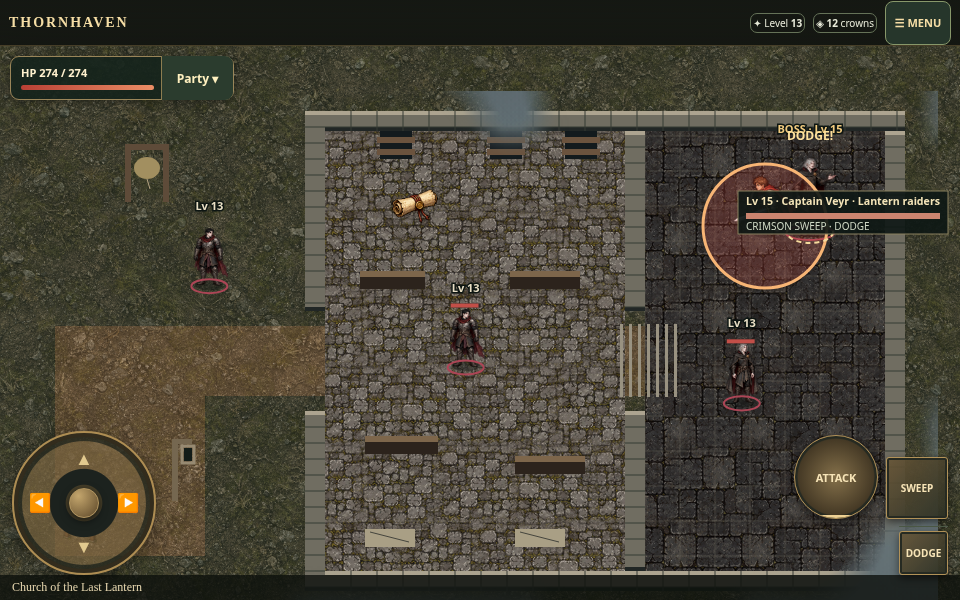
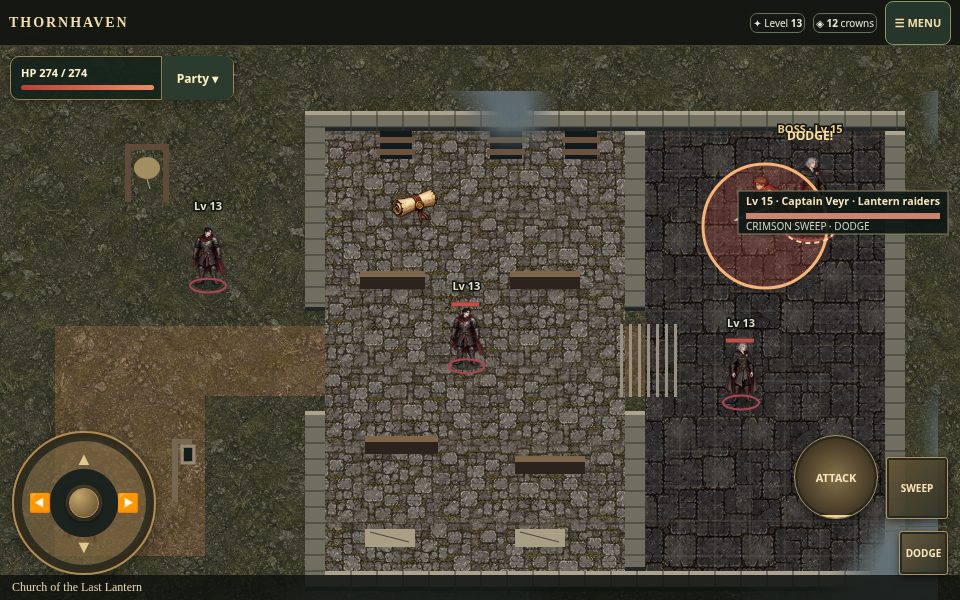
Keep Last Lantern hidden until an explicit approved story reveal

diff --git a/app/src/main/assets/last-lantern.js b/app/src/main/assets/last-lantern.js
@@ -5,6 +5,9 @@
 (() => {
  'use strict';
  const id='last_lantern', quest='last_lantern';
+ // Closed until an approved later-story reveal explicitly authorizes this hero.
+ // No production code sets this flag; QA alone enables it to exercise the lair.
+ const access=(quests=townQuestState)=>quests?._lastLanternAccess?.revealed===true;
  const entry={id:'lantern_road',x:650,y:315,label:'LAST LANTERN · RUINED CHURCH'};
  const objects=[
   {id:'lantern_return',x:80,y:490,label:'BRIAR HOLLOW · RETURN'},
@@ -31,12 +34,22 @@
   trees:[],stones:[],npcs:[],enemies:structuredClone(freshEnemies),gatherNodes:[],
   arrival:[80,490],solidAreas:[...masonry,...benches],worldObjects:objects,
   hint:'A Light Beneath the Ruins · churchyard → nave → undercroft. Return southwest at any time.'};
- maps.briarhollow.worldObjects.push(entry);
  mapConnections[id]={entries:{default:[80,490]},exits:[{trigger:'interact',x:80,y:490,radius:44,to:'briarhollow',entry:'from_lantern'}]};
  mapConnections.briarhollow.entries.from_lantern=[650,315];
- mapConnections.briarhollow.exits.push({trigger:'interact',x:650,y:315,radius:44,to:id,entry:'default'});
+ const outward={trigger:'interact',x:650,y:315,radius:44,to:id,entry:'default'};
  // Atlas route placement only: this is a separate explorable map, not a grid town.
- worldPositions[id]=[(worldPositions.briarhollow?.[0]||50)+2,(worldPositions.briarhollow?.[1]||50)+2];
+ const position=[(worldPositions.briarhollow?.[0]||50)+2,(worldPositions.briarhollow?.[1]||50)+2];
+ function syncAccess(quests=townQuestState){
+  const open=access(quests),objects=maps.briarhollow.worldObjects,exits=mapConnections.briarhollow.exits;
+  if(open){if(!objects.includes(entry))objects.push(entry);if(!exits.includes(outward))exits.push(outward);worldPositions[id]=position;}
+  else{const oi=objects.indexOf(entry),ei=exits.indexOf(outward);if(oi>=0)objects.splice(oi,1);if(ei>=0)exits.splice(ei,1);delete worldPositions[id];}
+ }
+ syncAccess();
+ const mapBefore=setMap;
+ setMap=function(destination,...args){syncAccess();if(destination===id&&!access())return false;return mapBefore(destination,...args);};
+ const detailsBefore=showAtlasDetails,travelBefore=travelTo;
+ showAtlasDetails=function(destination){if(destination===id&&!access()){document.getElementById('atlasSelection').textContent='This route is not available yet.';return false;}return detailsBefore(destination);};
+ travelTo=function(destination){if(destination===id&&!access())return false;return travelBefore(destination);};
  const read=()=>townQuestState[quest]||{};
  const state=()=>townQuestState[quest]||(townQuestState[quest]={accepted:true});
  const cleared=()=>maps[id].enemies.every(e=>!e.alive);
@@ -47,7 +60,7 @@
    progress:[s.bell,s.register,s.inventory].filter(Boolean).length+'/3 discoveries · '+maps[id].enemies.filter(e=>!e.alive).length+'/4 raiders',ready:cleared()&&evidence(s)&&!s.claimed};
  };
  const catalogBefore=questCatalog;
- questCatalog=function(){const s=read();return [...catalogBefore(),{id:quest,title:'A Light Beneath the Ruins',desc:guide().detail,reward:'65 crowns · 70 XP · an unresolved wagon-route lead',active:!!s.accepted&&!s.claimed,done:!!s.claimed}];};
+ questCatalog=function(){if(!access())return catalogBefore();const s=read();return [...catalogBefore(),{id:quest,title:'A Light Beneath the Ruins',desc:guide().detail,reward:'65 crowns · 70 XP · an unresolved wagon-route lead',active:!!s.accepted&&!s.claimed,done:!!s.claimed}];};
  const guideBefore=questGuide;
  questGuide=function(q){return q.id===quest?guide():guideBefore(q);};
  const killBefore=finishEnemy;
@@ -61,19 +74,25 @@
  applySavedGame=function(save){
   if(!save)return;
   maps[id].enemies.splice(0,maps[id].enemies.length,...structuredClone(freshEnemies));
+  syncAccess(save.townQuestState);
+  // A pre-gate development save cannot expose the lair without authorization.
+  // Preserve its discoveries/clearance, but resume outside on the existing road.
+  if(save.mapId===id&&!access(save.townQuestState))save={...save,mapId:'briarhollow',player:{...save.player,x:650,y:315}};
   loadBefore(save);
+  syncAccess();
   const s=read();for(const e of maps[id].enemies)if(s[e.lanternRaider]||s.cleared||s.claimed){e.alive=false;e.hp=0;e.respawnAt=0;}
  };
  const interactBefore=worldObjectInteract;
  worldObjectInteract=function(o){
   if(!o?.id?.startsWith('lantern_'))return interactBefore(o);
+  if(!access())return false;
   // Preserve normal proximity/map requirements even for delayed dialog callbacks.
   if(!(activeMap.worldObjects||[]).includes(o)||Math.hypot(player.x-o.x,player.y-o.y)>68)return false;
   if(o.id==='lantern_return')return takeMapExit(mapConnections[id].exits[0]);
   if(o.id==='lantern_road'){
    const prior=townQuestState.briar_hollow||{};
    openAdventureDialog('The Church of the Last Lantern','A roadside church once kept a lantern burning for boats and wagons. Its windows are boarded; hostile vampire raiders hold the ruins. This is an optional expedition, recommended for level 13+ with healing supplies. You may retreat at any time.\n\n'+(prior.claimed?'Ada is safe and the missing are remembered. This trail does not settle their fates.':prior.rescued?'Ada has reached safety. The church is a separate lead.':'Briar Hollow’s search for survivors remains separate; you can return to it at any time.'),[
-    {label:'Enter the ruined church',action:()=>{if(mapId!=='briarhollow'||Math.hypot(player.x-entry.x,player.y-entry.y)>68)return;if(!journalCanAccept(quest))return;state().accepted=true;takeMapExit(mapConnections.briarhollow.exits.find(e=>e.to===id));}},
+    {label:'Enter the ruined church',action:()=>{if(!access()||mapId!=='briarhollow'||Math.hypot(player.x-entry.x,player.y-entry.y)>68)return;if(!journalCanAccept(quest))return;state().accepted=true;takeMapExit(mapConnections.briarhollow.exits.find(e=>e.to===id));}},
     {label:'Stay on the road',action:()=>{}}
    ]);return true;
   }
@@ -98,10 +117,10 @@
  };
  // Completed/partial discoveries remain readable in the normal quest journal.
  const rawCatalog=questCatalog;
- questCatalog=function(){const rows=rawCatalog(),q=rows.find(q=>q.id===quest),s=read();q.desc+='\n'+[s.bell?'Bell: a severed rope, a repeated method without proof of identity.':'',s.register?'Register: shelter for travelers, boat crews and children.':'',s.inventory?'Inventory: oil, blankets, bandages, axles; R-7 and the Third Mooring. No names or code key.':''].filter(Boolean).join('\n');return rows;};
+ questCatalog=function(){const rows=rawCatalog(),q=rows.find(q=>q.id===quest),s=read();if(!q)return rows;q.desc+='\n'+[s.bell?'Bell: a severed rope, a repeated method without proof of identity.':'',s.register?'Register: shelter for travelers, boat crews and children.':'',s.inventory?'Inventory: oil, blankets, bandages, axles; R-7 and the Third Mooring. No names or code key.':''].filter(Boolean).join('\n');return rows;};
  const drawBefore=drawBriarHollow;
  drawBriarHollow=function(){
-  drawBefore();
+  drawBefore();syncAccess();if(!access())return;
   if(mapId==='briarhollow'){standArt('notice',entry.x,entry.y,42,'extras');if(Math.hypot(player.x-entry.x,player.y-entry.y)<210)drawLocationLabel(entry.x,entry.y-84,'LAST LANTERN · CHURCH →');return;}
   if(mapId!==id)return;
   const b=worldBounds(id),s=read();ctx.save();

diff --git a/app/src/main/assets/cloud-save-core.js b/app/src/main/assets/cloud-save-core.js
@@ -445,6 +445,8 @@ function safeTownQuestFlags(quests){
  if(!safeTownStock(quests._townStock))return false;
  if(!safeSlayerLedger(quests._slayers))return false;
  if(!safeVampireStory(quests._vampire))return false;
+ const lanternAccess=quests._lastLanternAccess;
+ if(lanternAccess!=null&&(typeof lanternAccess!=='object'||Array.isArray(lanternAccess)||(lanternAccess.revealed!=null&&typeof lanternAccess.revealed!=='boolean')))return false;
  const lantern=quests.last_lantern;
  if(lantern!=null){
   if(typeof lantern!=='object'||Array.isArray(lantern))return false;

diff --git a/tools/browser-last-lantern-qa.py b/tools/browser-last-lantern-qa.py
@@ -31,7 +31,9 @@ def run(browser,orientation,width,height):
  page.get_by_role('button',name='Tap to Continue').click()
  page.locator('#characterName').fill('LanternQA'+orientation)
  page.get_by_role('button',name='Begin Journey').click()
- page.evaluate("() => {player.level=13;syncHeroStats();player.hp=player.max;companions=[];setMap('briarhollow',650,315,false);ui();}")
+ assert page.evaluate("!questCatalog().some(q=>q.id==='last_lantern')&&!maps.briarhollow.worldObjects.some(o=>o.id==='lantern_road')&&!mapConnections.briarhollow.exits.some(e=>e.to==='last_lantern')&&setMap('last_lantern',80,490,false)===false")
+ # QA-only authorization: no production progression event currently opens this gate.
+ page.evaluate("() => {townQuestState._lastLanternAccess={revealed:true};player.level=13;syncHeroStats();player.hp=player.max;companions=[];setMap('briarhollow',650,315,false);ui();}")
  page.screenshot(path=str(OUT/f'{orientation}-briar-entrance.png'),animations='disabled')
  # Actual Interact button and choice enter the optional map.
  page.locator('#attack').click()
@@ -101,7 +103,7 @@ def run(browser,orientation,width,height):
   assert page.evaluate('enemies.every(e=>!e.alive)')==claimed
  assert not errors,errors
  page.close()
- return {'orientation':orientation,'passed':['UI entry/exit/reentry','keyboard movement through both doors','four telegraphs and dodge','dialogue pauses pending attack','combat-control clearance','evidence and reward','partial/completed document reload'],'pageErrors':errors}
+ return {'orientation':orientation,'passed':['closed default story gate; QA-only unlock','UI entry/exit/reentry','keyboard movement through both doors','four telegraphs and dodge','dialogue pauses pending attack','combat-control clearance','evidence and reward','partial/completed document reload'],'pageErrors':errors}
 
 parser=argparse.ArgumentParser()
 parser.add_argument('--browser',default=shutil.which('chromium') or shutil.which('google-chrome'))

diff --git a/docs/LAST-LANTERN.md b/docs/LAST-LANTERN.md
@@ -4,9 +4,19 @@ Scope: the first approved ruined-church lair, outside Briar Hollow. The four liv
 
 Base: `5f236f23deeb8aeadf8049ff84f367a07a7ee403` (main fetched November 18, 2026).
 
-## Playable route
+## Closed story gate — reveal decision still pending
 
-In Briar Hollow, interact with the Last Lantern sign at `(650,315)`, east of the remembrance stone. Choose **Enter the ruined church**. The separate `last_lantern` map has a churchyard, a nave with displaced benches and boarded windows, and an undercroft reached through a stair threshold. Both 100-pixel doorways remain open. The southwest return marker works during combat and after clearance.
+**Ordinary play cannot currently discover or enter Last Lantern.** Eligibility requires the character-local boolean `townQuestState._lastLanternAccess.revealed === true`. This is an isolated technical seam, not an invented reveal chapter. There is no production setter, developer-menu override, NPC unlock or automatic migration that grants it. Level, camp completion, Briar Hollow completion, elapsed time, visiting a map and accepting Night Visitor do not authorize access.
+
+When closed: no Briar entrance object/label/exit, no atlas position/selector entry, no Last Lantern journal/history entry, no new NPC or bestiary entry, and `setMap`, `travelTo`, direct atlas details and stale entrance callbacks cannot expose or enter it. The room definition remains registered for lossless save handling, but is unreachable. Opening the gate later restores the authored experience without rewriting its content.
+
+Tests explicitly seed this proposed milestone **only in isolated QA characters/storage** to exercise later-story gameplay. There is no shipped QA override and no write to ordinary player saves. Committed gameplay screenshots therefore depict QA-authorized later-story content, not a newly available early quest.
+
+Previously acquired Last Lantern discoveries, enemy defeats and rewards are retained. A development save physically inside the lair without the explicit flag resumes on Briar Hollow's road while keeping those records. No unrelated released quest is migrated. How to recognize legitimate advanced released characters, which approved event reveals vampires, and how that event grants this eligibility remain **unapproved integration decisions**; no level/quest heuristic substitutes for them.
+
+## Playable route after approved reveal integration
+
+Once the explicit per-character eligibility exists, in Briar Hollow, interact with the Last Lantern sign at `(650,315)`, east of the remembrance stone. Choose **Enter the ruined church**. The separate `last_lantern` map has a churchyard, a nave with displaced benches and boarded windows, and an undercroft reached through a stair threshold. Both 100-pixel doorways remain open. The southwest return marker works during combat and after clearance.
 
 This is a level-13 region using normal hero-relative scaling. Two Bloodbound Scouts use Blood Lunge; a Veil Stalker uses Veil Strike. Captain Veyr is a local raider captain using the existing Crimson Sweep pattern and boss minimum of hero level +2. The Crimson Elder's original encounter and definition are unchanged. There are no friendly civilians in the occupied lair.
 
@@ -22,7 +32,7 @@ The one geometry hook reads `solidAreas` through the existing `fixedSceneryAreas
 
 `townQuestState.last_lantern` contains only per-character booleans: acceptance, three discoveries, four defeated raider IDs, clearance and reward claim. Enemy positions/health use the existing indexed `mapStates.last_lantern` snapshots. Defeat flags are set before the normal combat save. Applying any character first resets this map's runtime enemies, then restores that character's snapshot and defeat flags. Old saves with no new map entry receive fresh encounters without inheriting another slot's clearance. Cloud validation recognizes the map and rejects malformed quest booleans.
 
-The historical hash gates still verify the original pinned 1.0.69 baseline after removing the **exact** current overlay; missing or edited generated content fails verification. The canonical module remains ordinary reviewable source, rather than replacing historical binary chunks. The generated HTML and restored atlas PNG are not committed.
+Closed-default, alternate-route and no-heuristic-unlock assertions accompany the gameplay checks. The historical hash gates still verify the original pinned 1.0.69 baseline after removing the **exact** current overlay; missing or edited generated content fails verification. The canonical module remains ordinary reviewable source, rather than replacing historical binary chunks. The generated HTML and restored atlas PNG are not committed.
 
 From a fresh checkout:
 
@@ -60,3 +70,15 @@ Browser QA uses real Chromium UI, frames, keyboard movement, dodge and held atta
 Local aggregate: **123 of 135 Node suites passed**. The remaining **12 failed at the unavailable `javac` prerequisite** (native back-navigation/cloud-picker/Billing checks); their native assertions were not run. No gameplay regression failure remains. Source syntax/asset checks, baseline-plus-overlay verification, atlas geography/world-map checks and focused runtime tests passed.
 
 Android build/emulator, physical Samsung touch/performance, Play-delivered updates and live Billing are unrun locally. No release, signing, merge or deployment was performed.
+
+## Existing early spoilers found (reported, not rewritten)
+
+These are pre-existing in the restored main game at the recorded base, outside this addition:
+
+- `briarInteract`: Ada explicitly says “Vampires” after the three local clues; the remembrance completion states that the raiders were vampires. The camp chapter already points the player to Briar Hollow.
+- `vampireMonsterDefs` and its placement loop: Bloodbound Scouts/Veil Stalkers are placed in accessible wilderness including Whisperwood, Redfen and Greenhollow without a later-story reveal gate.
+- `vampireBestiaryText` / `openBestiary`: the bestiary lists “VAMPIRE RAIDERS”, named types and encounter regions without a reveal check.
+- The `plainLabels` menu mapping calls Night Visitor “Vampire story” unconditionally. `startVampireStory` needs level 3/night/Ashvale and journal availability, not an approved later-story milestone. `openVampireStory` explicitly reveals Serin after three clue regions.
+- Veilhaven's atlas hint, Worldsend ferry description, charter and resident dialogue explicitly discuss vampires. They remain neutral; none is made the king or conflated with Auren/Hollow Regent.
+
+Coordinated pacing must decide those gates separately. This PR does not claim the whole game's early vampire exposure has been fixed, and does not invent the vampire king, a reveal chapter, or a new hero identity.
